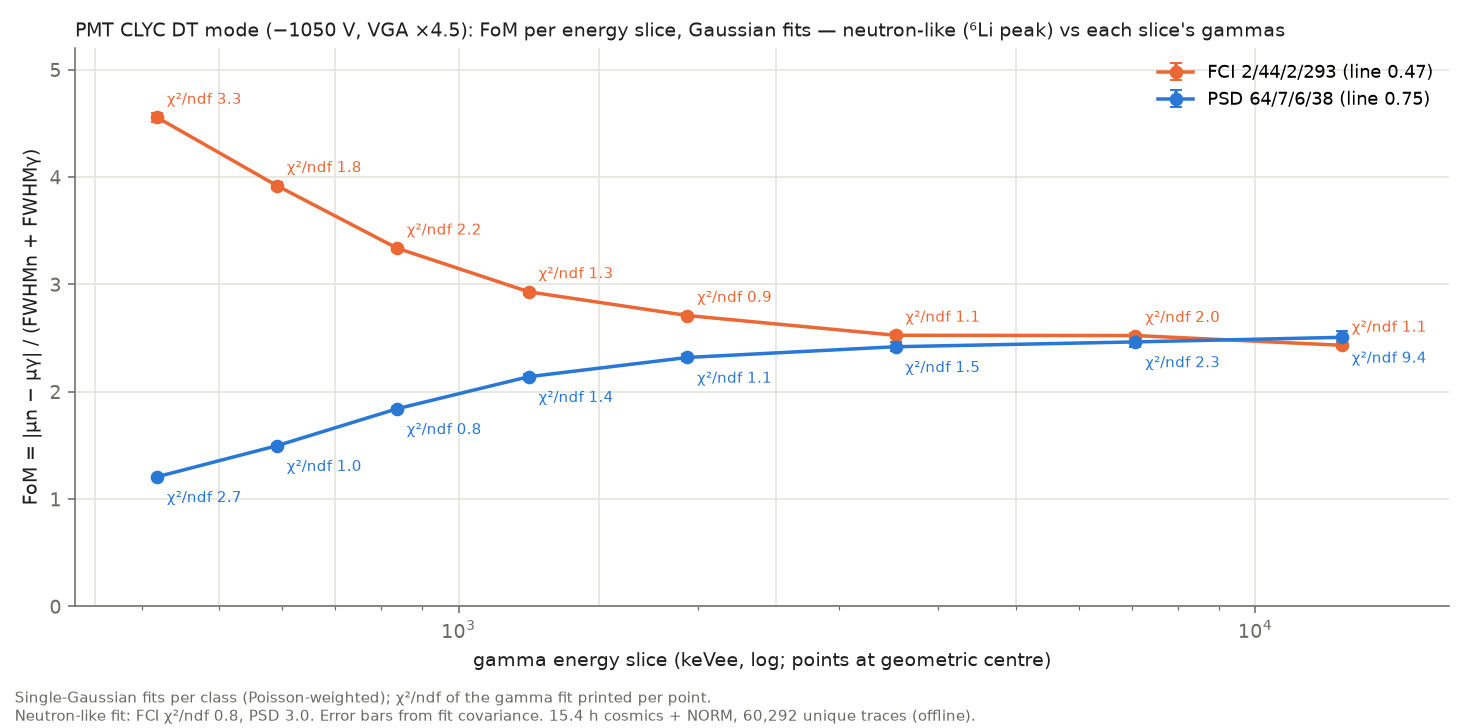
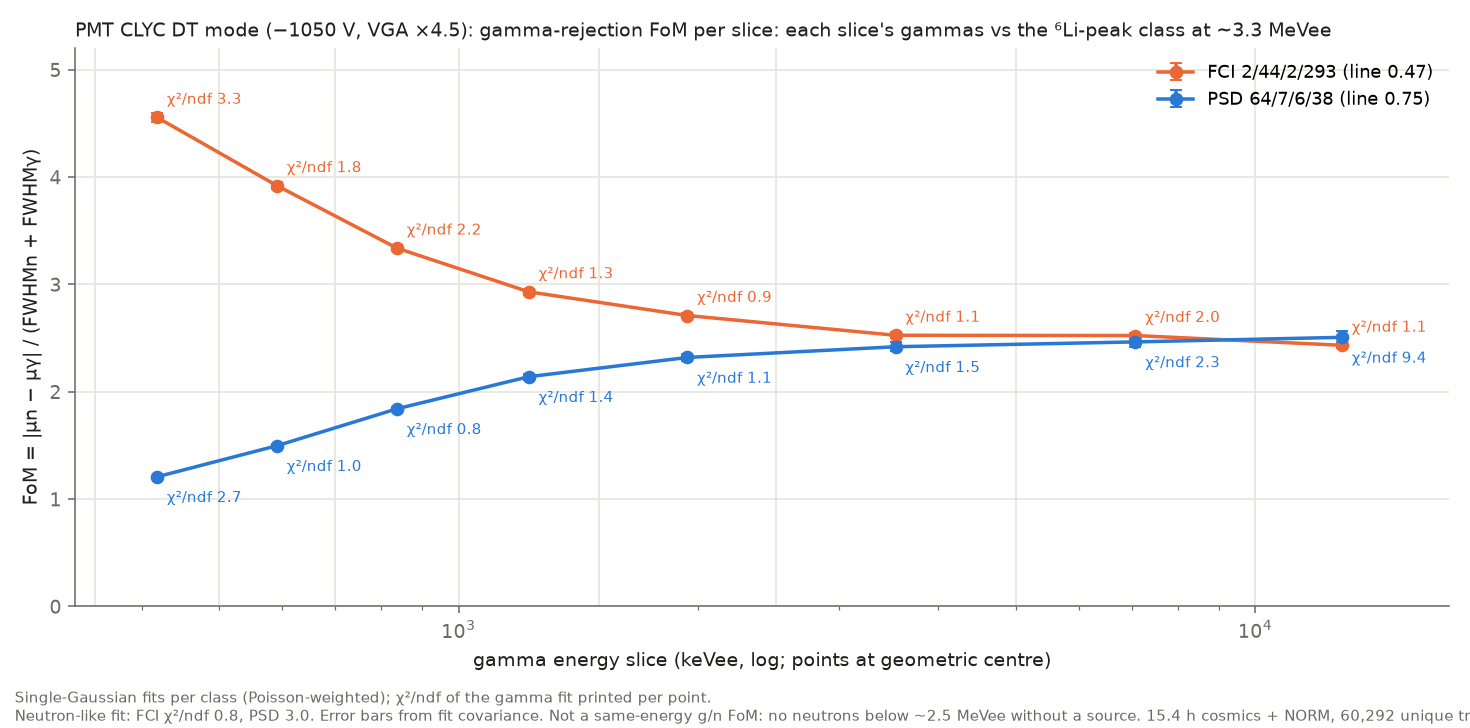
#26: update calibration in log

Changed region(s): [[0.3673, 0.967, 1.0, 0.9973], [0.3061, 0.0302, 0.9184, 0.0604]]

diff --git a/docs/log/README.md b/docs/log/README.md
@@ -5732,7 +5732,7 @@ for this HV + VGA + shaper combination, and any change to one of them needs a ne
 | Live FCI/PSD → PSD | pre-trigger / pre-gate / short / long | **64 / 7 / 6 / 38** samples; baseline ref 0 | sweep optimum (below) |
 | Live FCI/PSD → FCI | low bin (both) / PSA_l high / PSA_w high | **2 / 44 / 293** | sweep optimum (below) |
 | g/n horizontal line | PSD / FCI | **0.75 / 0.47** | operator-set margins (below): FCI 0.015 above the highest gamma up to 16.5 MeVee; PSD below every slow event |
-| Spectrum → calibration | c0 / c1 / c2 | **−4.9 / 2.642 / 0** keVee | ²²Na 511/1275; checked on K-40 (1,480) and ⁶Li (3,328) |
+| Spectrum → calibration | c0 / c1 / c2 | **c0 = −4.9018 keVee, c1 = 2.642 keVee/ch, c2 = 0** | E = c0 + c1·ch + c2·ch², ch = shaper peak / peak_fold, peak_fold = 50 (= peaking); from ²²Na 511/1275 keV; checked on K-40 (1,480 ± 7 keVee) and ⁶Li (3,328 ± 3 keVee); valid only for −1050 V + VGA ×4.5 + shaper 1/1/1 µs |
 | Live FCI/PSD → LLD / ULD | both panels | **350 / 16,500 keVee** | ULD where the live PSD gamma band starts to bend (operator reading) |
 | Recording | list + raw traces | both on; **Trigger-tab scope running** | raw traces are written only while the scope runs |
 
@@ -5798,10 +5798,15 @@ conventions were tried on the same events. Only one of them is fair to a discrim
 band moves with energy, which FCI's does at this operating point (median 0.24 at 350–500 keVee to
 0.43 at 10–16.5 MeVee; PSD's stays at 0.68–0.70).
 
-*1. FoM per energy slice (differential), Gaussian-fitted — the measure used.* Each slice's gammas
-are fitted with one Gaussian, the neutron-like class (⁶Li peak + internal α, §10.14) with another,
-FoM = |μn − μγ| / (FWHMn + FWHMγ). Within a slice the band hardly moves, so the Gaussian model
-holds, and every slice is the situation one horizontal hardware line faces at that energy.
+*1. Gamma-rejection FoM per energy slice, Gaussian-fitted.* Each slice's gammas are fitted with one
+Gaussian, the neutron-like class with another, FoM = |μn − μγ| / (FWHMn + FWHMγ). Within a slice the
+band hardly moves, so the Gaussian model holds. **Caution: this is not a g/n FoM at that energy.**
+Without a neutron source the only neutron-like events are the ⁶Li captures (and internal α, §10.14)
+at ~3.3 MeVee — there are essentially no neutrons at 300–2,500 keVee — so every slice compares that
+slice's gammas with the *3.3 MeVee* class. It measures how far the gammas at each energy sit from
+where the thermal neutrons sit, i.e. gamma rejection for a line placed for them. A same-energy g/n
+FoM exists only where both classes do: the **2,500–5,000 keVee slice, where FCI (2.52) and PSD
+(2.42) are level**.
 
 ![FoM per energy slice, Gaussian fits, FCI and PSD at the DT settings](images/pmt_clyc_dt1050_fom_vs_energy.png)
 
@@ -5817,10 +5822,15 @@ holds, and every slice is the situation one horizontal hardware line faces at th
 | 10,000–16,500 | 3,040 | 0.428 / 0.016 / 1.1 | **2.43 ± 0.03** | 0.704 / 0.017 / 9.4 | **2.51 ± 0.06** |
 | neutron-like (all, 611) | | 0.529 / 0.026 / 0.8 | | 0.804 / 0.023 / 3.0 | |
 
-FCI is ahead in every slice below 2.5 MeVee — **2–4× PSD below 1 MeVee** — and level with it above.
-The fits hold (FCI χ²/ndf 0.9–3.3; PSD 0.8–2.7 except its top slice, 9.4, a non-Gaussian tail). The
-lowest slice's 3.3 is the band still moving within 150 keVee; narrower slices would lower it.
-Together with the leakage tables below, this is the measure to report.
+FCI's gammas sit further from the ⁶Li class than PSD's in every slice below 2.5 MeVee (2–4× below
+1 MeVee), and level above; the fits hold (FCI χ²/ndf 0.9–3.3; PSD 0.8–2.7 except its top slice,
+9.4). **This favors FCI at low energy only on the gamma side.** Real low-energy neutrons (fast
+recoils at 350–2,500 keVee) would carry the same noise bias as the gammas — at −1400 V the neutron
+FCI median fell from 0.579 at 3.5 MeVee to 0.450 at 600 keVee (§10.8) — so at the DT windows they
+may sit near or below the 0.47 line, and FCI's low-energy neutron acceptance may be what pays for
+its gamma rejection. PSD's neutron band would widen at low energy too. **Neutron acceptance below
+~2.5 MeVee is unmeasured for both methods** and needs fast neutrons (DT, DD or AmBe); until then
+report this figure as gamma rejection, with the same-energy FoM limited to the 2.5–5 MeVee slice.
 
 *2. FoM vs cumulative LLD (the §8v SiPM convention) — does not work here.* At each lower cut E the
 population is the tail [E, 16.5 MeVee], classes by each method's own line, robust median/IQR FoM
@@ -5929,7 +5939,9 @@ events, line placed for each acceptance:
   gamma-like FCI (median 0.24, max 0.43, against 0.53 for neutrons): PSD's noise spread near
   threshold pushes them over.
 - Above 1 MeVee the two methods are equivalent (2–5 events each). FCI's advantage is at
-  350 keVee–1 MeVee — where DT gammas are densest.
+  350 keVee–1 MeVee — where DT gammas are densest — **on the gamma side**: whether low-energy
+  neutrons stay above FCI's line there is not measured (no neutrons below ~2.5 MeVee without a
+  source; see the gamma-rejection FoM above).
 
 ![FCI and PSD vs energy at the DT optima, 15.4 h, with the straight-line cuts](images/pmt_clyc_dt1050_fci_psd_vs_energy_matrix.png)
 
@@ -5938,7 +5950,8 @@ FCI's gamma band (a, c) is asymmetric in energy — it rises from ~0.22 at 350 k
 16 MeVee — but no gamma crosses the line anywhere up to 16.5 MeVee; PSD's band (b, d) is flat at
 0.68–0.70, but below ~700 keVee its noise tail reaches through the line into the neutron region
 (801 gammas, against 9 above 700 keVee). For the paper: **report gamma leakage at
-fixed neutron acceptance (per slice and pooled) as the discrimination measure**, and keep the
+fixed neutron acceptance (per slice and pooled) as the gamma-rejection measure** — the acceptance
+being that of the 3.3 MeVee thermal captures, not of neutrons at every energy — and keep the
 double-Gaussian FoM alongside, with its χ²/ndf printed and this explanation, for comparison with
 [Morales et al. 2024].
 
